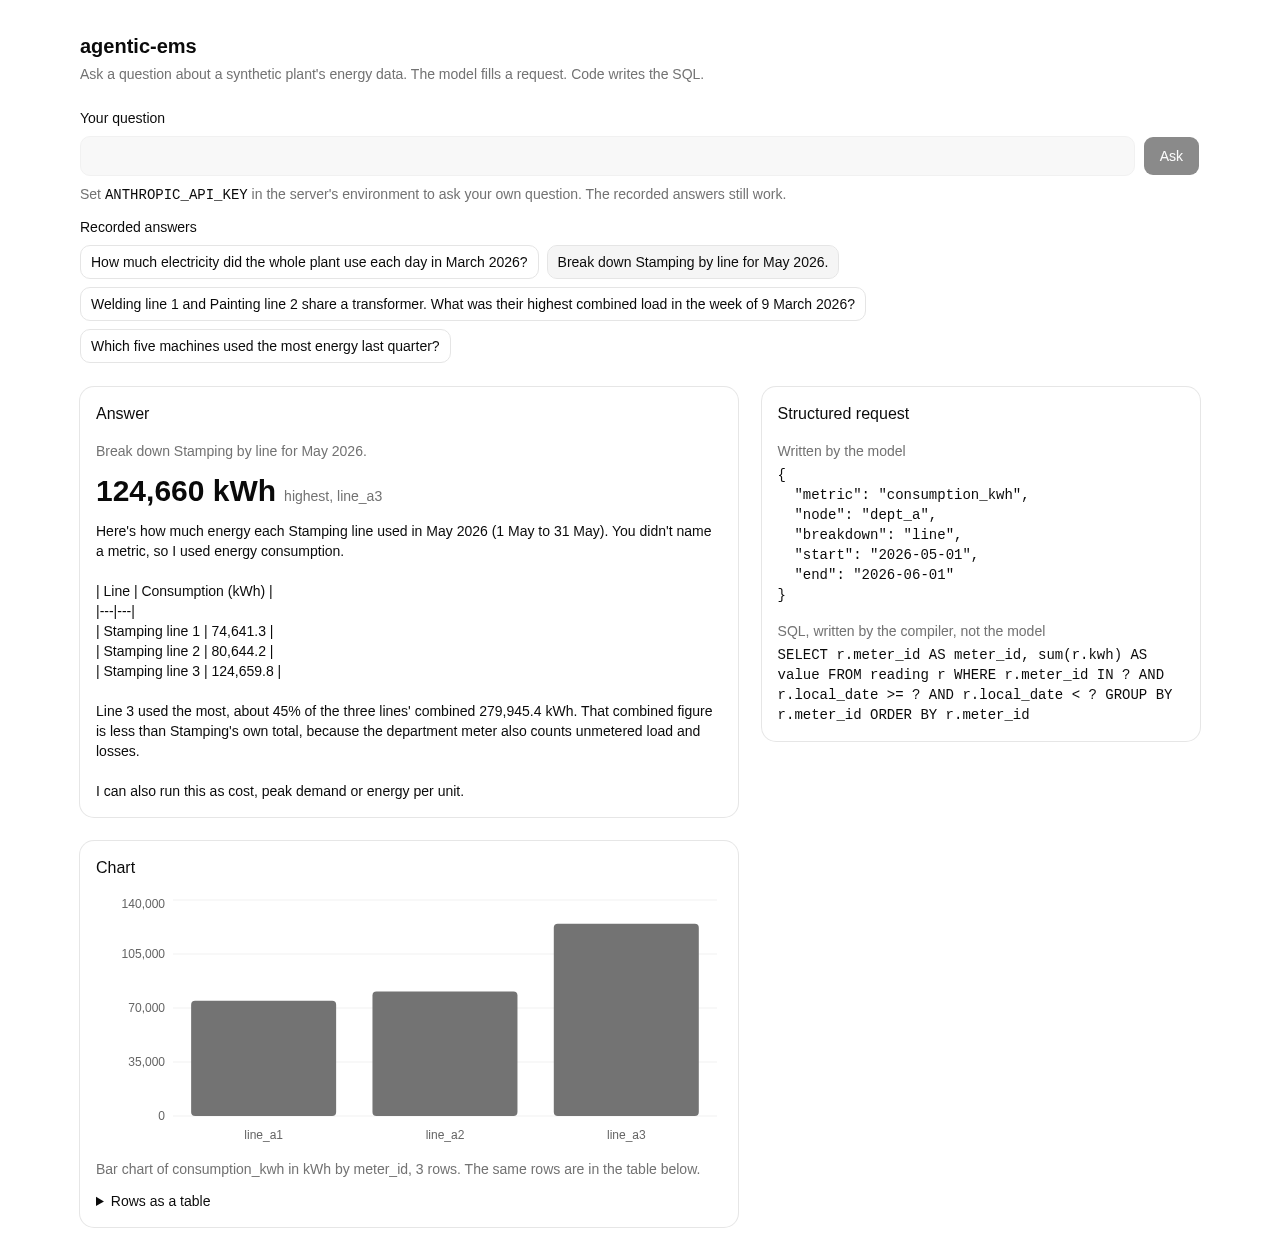
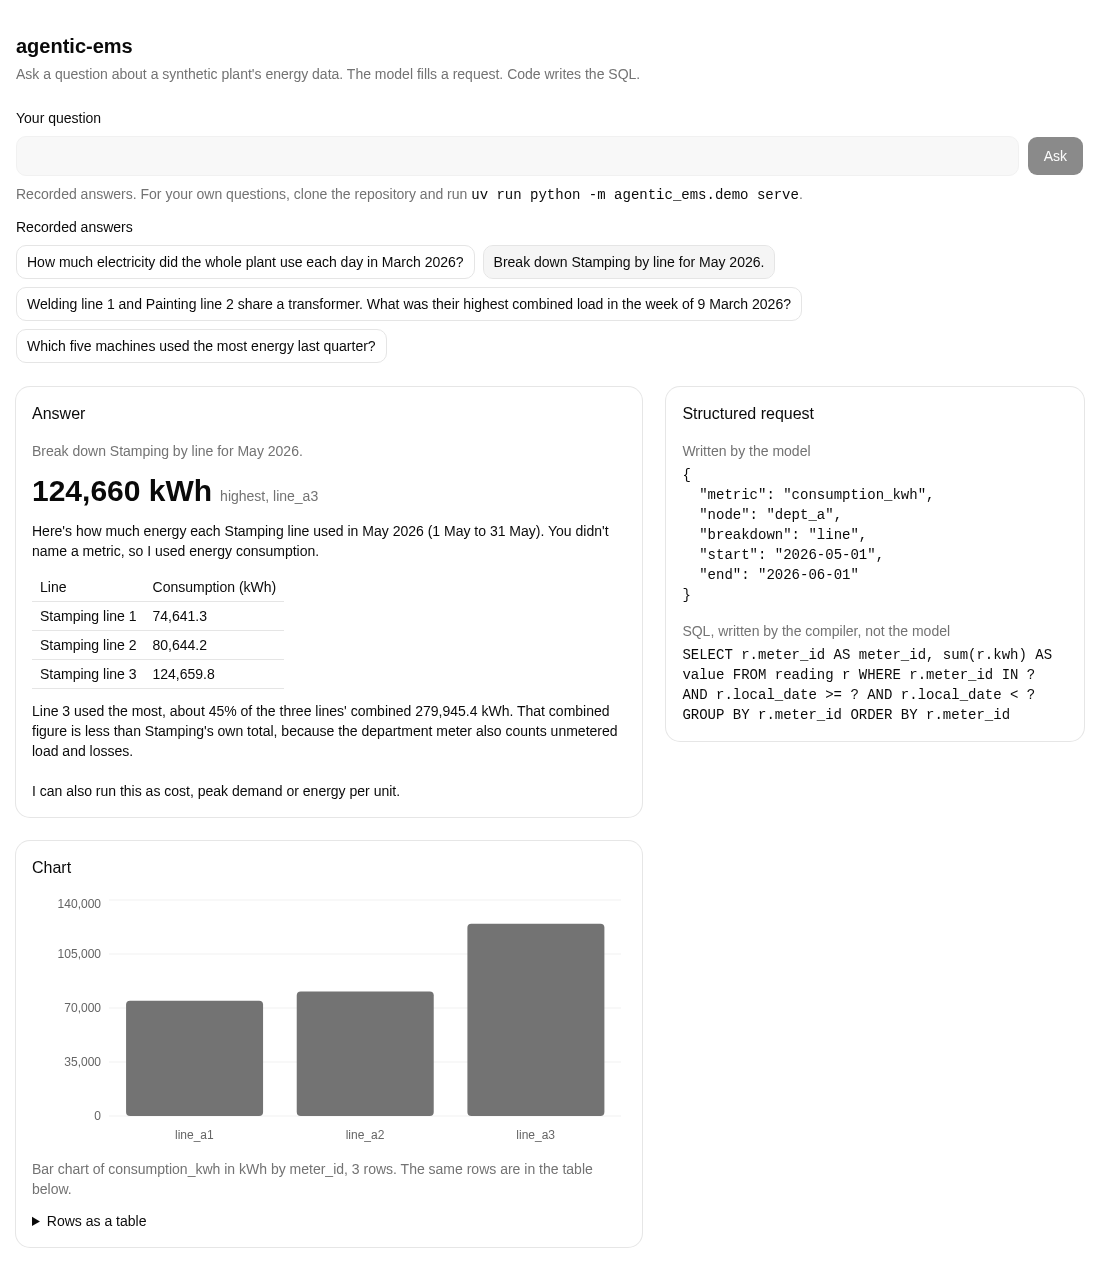
Show the model's Markdown tables as tables in the page
The recorded answers carry tables, which the page printed as raw markup, and
the README's screenshot showed it. A small splitter in the stream module, no
new dependency; the screenshot is taken again from the static build.

diff --git a/frontend/src/App.tsx b/frontend/src/App.tsx
@@ -19,6 +19,7 @@ import {
   keyFormatter,
   pivot,
   replay,
+  textBlocks,
   unitOf,
   type MetricRequest,
   type Row,
@@ -78,6 +79,11 @@ function isIndex(value: unknown): value is Entry[] {
     Array.isArray(value) &&
     value.every((e) => typeof e?.file === "string" && typeof e?.question === "string")
   )
+}
+
+/** `**x**` in the model's text as bold; everything else stays plain text. */
+function bold(text: string) {
+  return text.split(/\*\*(.+?)\*\*/).map((part, i) => (i % 2 ? <strong key={i}>{part}</strong> : part))
 }
 
 export default function App() {
@@ -226,7 +232,24 @@ export default function App() {
                 {answered && view.rows!.length === 0 && <p className="font-medium">No rows for this request.</p>}
                 {view.refusal !== null && <p className="font-medium">Out of scope: {view.refusal}</p>}
                 {view.error !== null && <p className="font-medium text-destructive">Error: {view.error}</p>}
-                {view.text && <p className="whitespace-pre-wrap">{view.text}</p>}
+                {textBlocks(view.text).map((block, i) =>
+                  block.kind === "text" ? (
+                    <p key={i} className="whitespace-pre-wrap">{bold(block.text)}</p>
+                  ) : (
+                    <div key={i} className="overflow-x-auto">
+                      <table className="text-sm tabular-nums">
+                        <thead>
+                          <tr>{block.header.map((cell, c) => <th key={c} scope="col" className="border-b px-2 py-1 text-left font-medium">{bold(cell)}</th>)}</tr>
+                        </thead>
+                        <tbody>
+                          {block.rows.map((row, r) => (
+                            <tr key={r}>{row.map((cell, c) => <td key={c} className="border-b px-2 py-1">{bold(cell)}</td>)}</tr>
+                          ))}
+                        </tbody>
+                      </table>
+                    </div>
+                  ),
+                )}
                 {view.streaming && <p className="text-sm text-muted-foreground">Streaming...</p>}
               </div>
             </CardContent>

diff --git a/frontend/src/stream.test.ts b/frontend/src/stream.test.ts
@@ -1,5 +1,5 @@
 import { afterEach, describe, expect, it, vi } from "vitest"
-import { ask, chartKind, formatBucket, formatValue, headline, keyFormatter, pivot, replay, unitOf, type Sample, type StreamEvent } from "./stream"
+import { ask, chartKind, formatBucket, formatValue, headline, keyFormatter, pivot, replay, textBlocks, unitOf, type Sample, type StreamEvent } from "./stream"
 import { breakdownSample, refusalSample, seriesSample, singleSample } from "./test-fixtures"
 
 async function collect(run: (onEvent: (e: StreamEvent) => void) => Promise<void>): Promise<StreamEvent[]> {
@@ -283,5 +283,19 @@ describe("ask", () => {
     vi.stubGlobal("fetch", vi.fn(async () => sseResponse(['event: text\ndata: {"delta": "Test"}\n\nevent: te'])))
     const events = await collect((on) => ask("q", on))
     expect(events.map((e) => e.name)).toEqual(["text", "error", "done"])
+  })
+})
+
+describe("textBlocks", () => {
+  it("cuts a Markdown table out of the text around it", () => {
+    const text = "Before **x**.\n\n| A | B |\n|---|---:|\n| 1 | 2 |\n| 3 | 4 |\n\nAfter."
+    expect(textBlocks(text)).toEqual([
+      { kind: "text", text: "Before **x**." },
+      { kind: "table", header: ["A", "B"], rows: [["1", "2"], ["3", "4"]] },
+      { kind: "text", text: "After." },
+    ])
+  })
+  it("leaves a table whose separator has not streamed in yet as text", () => {
+    expect(textBlocks("| A | B |")).toEqual([{ kind: "text", text: "| A | B |" }])
   })
 })

diff --git a/frontend/src/stream.ts b/frontend/src/stream.ts
@@ -204,3 +204,31 @@ export function pivot(columns: string[], rows: Row[]) {
   }
   return { xName, data: [...points.values()], series }
 }
+
+export type TextBlock = { kind: "text"; text: string } | { kind: "table"; header: string[]; rows: string[][] }
+
+const cells = (line: string) => line.trim().replace(/^\||\|$/g, "").split("|").map((cell) => cell.trim())
+
+/** The model's text cut into paragraphs and Markdown tables; a table counts once its separator line has arrived. */
+export function textBlocks(text: string): TextBlock[] {
+  const lines = text.split("\n")
+  const blocks: TextBlock[] = []
+  let plain: string[] = []
+  const flush = () => {
+    const joined = plain.join("\n").trim()
+    if (joined) blocks.push({ kind: "text", text: joined })
+    plain = []
+  }
+  for (let i = 0; i < lines.length; i++) {
+    if (lines[i].startsWith("|") && /^\|[\s:|-]+\|\s*$/.test(lines[i + 1] ?? "")) {
+      flush()
+      const header = cells(lines[i])
+      const rows: string[][] = []
+      for (i += 2; i < lines.length && lines[i].startsWith("|"); i++) rows.push(cells(lines[i]))
+      i--
+      blocks.push({ kind: "table", header, rows })
+    } else plain.push(lines[i])
+  }
+  flush()
+  return blocks
+}

diff --git a/docs/review-log.md b/docs/review-log.md
@@ -180,6 +180,8 @@
     the page replays without a key.
   - Left as it is: the page shows the model's text as plain text, so the Markdown tables in the
     recorded answers appear as raw markup, also in the README's screenshot. The owner was told.
+    Fixed later the same day at the owner's word: the page now shows those tables as tables and
+    `**bold**` as bold (lists stay plain text), and the screenshot was taken again.
 - `/cso`: first not assessed, because its launcher was not installed. Run later the same day
   at commit d02f9cd, once the launcher was built: static mode, whole repository, nothing
   executed. Result: partial, no supported findings in the assessed scope.
